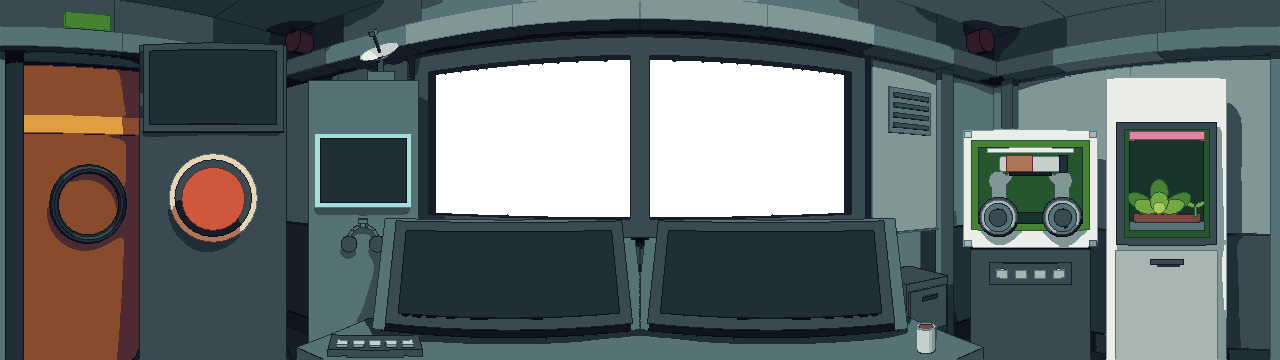
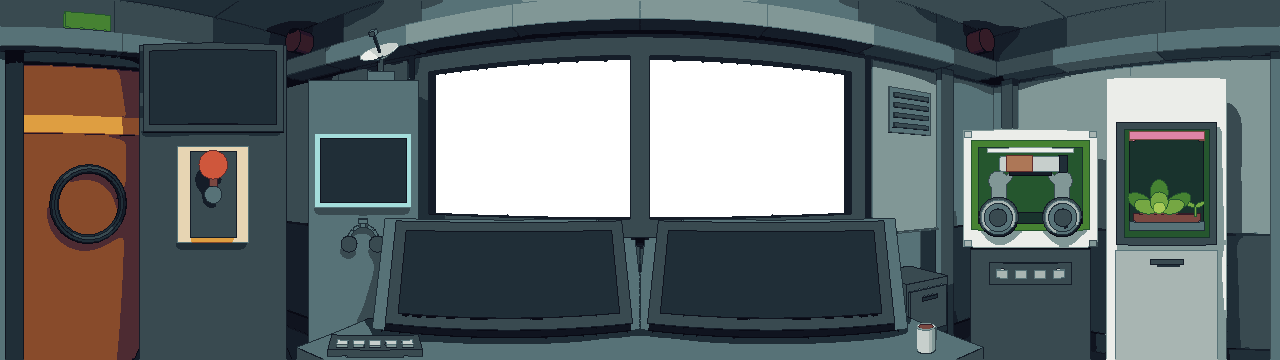
Alavanca no lugar do botão do abrigo: modelo, render da sala e retângulo clicável
A alavanca (placa de aro amarelo, fenda, pino e punho vermelho) toma o lugar do botão cogumelo
no pilar do suporte de vida. Fica em cima nos estados normal, tempestade e modo de segurança e
embaixo em abrigo e abrigo_aberto, sem render extra. Os PNGs são o render só na região da
alavanca (x 154..271, y 131..257) sobre os do main: fora dela, zero pixel de diferença.
botoes.abrigo passa de 168,153 90x90 para 177,145 73x98, dentro da faixa de clique.

Changed region(s): [[0.125, 0.3972, 0.2188, 0.7028]]

diff --git a/arte/blender/comodo.py b/arte/blender/comodo.py
@@ -6,14 +6,23 @@ Uso (da raiz do repo):
 (o `blender` do PATH é o Flatpak: passe o script por caminho absoluto.)
 
 Fonte da verdade: este script. Nenhum .blend é salvo nem lido.
-Mesma câmera em todos os estados. A geometria também é a mesma, com uma única exceção
-permitida: a persiana da janela, que só o estado `abrigo` fecha. O estado muda luz e emissão.
+Mesma câmera em todos os estados. A geometria também é a mesma, com duas exceções permitidas:
+a persiana da janela, que só o estado `abrigo` fecha, e a alavanca do abrigo, que fica embaixo
+em `abrigo` e `abrigo_aberto` e em cima nos outros estados (a placa, a fenda e o pino são os
+mesmos; muda só o braço, com o punho). O estado muda luz e emissão.
 A persiana fica dentro do vão da janela, entre a moldura de aço e o vidro, com a largura exata
 do vão: a moldura e o montante central a tapam e continuam visíveis por cima dela. Há o estado
 extra `abrigo_aberto`: a mesma luz e emissão do `abrigo`, sem a persiana e com o vidro em alpha 0.
-Ele não entra no padrão de `--estados` (renderize com `--estados abrigo,abrigo_aberto`);
+A alavanca está embaixo nos dois. Ele não entra no padrão de `--estados` (renderize com
+`--estados abrigo,abrigo_aberto`);
 scripts/gerar_persiana.py usa a diferença entre `abrigo` e `abrigo_aberto` como a camada da
 persiana.
+
+Os PNGs da sala com a alavanca (15/11) não são o render cru: são o render só na região de repintura
+da alavanca (x 154..271, y 131..257, que cobre o botão antigo e a sombra dos dois) colado sobre os
+PNGs anteriores, com o pilar do suporte de vida na cor de antes. Com a geometria nova o render inteiro
+muda o tom desse pilar na tempestade (a emissão do botão grande sumiu) e uns pixels esparsos
+mudam longe dela; fora da região os PNGs ficam idênticos aos do commit anterior.
 
 Arte final, não mais gray-box: o casco tem placas com juntas, meia-parede, friso, rodapé, calha
 em trechos, teto em placas e uma grade de ventilação; a glovebox e a estufa têm miolo com luz
@@ -29,9 +38,9 @@ sala, e o traço dele e as faces internas da moldura saem em neutro escuro (COR_
 Godot escurece a vista no pôr do Sol e à noite.
 
 Além dos PNGs do panorama, grava assets/comodo/regioes.json (retângulos dos botões e telas,
-calculados pela projeção real da câmera sobre os vértices). Botões: abrigo, estufa, glovebox e
-porta (a porta do dormitório, na ponta esquerda: tocá-la encerra o sol). Telas: energia, oxigenio,
-radiacao e comunicacao (a tela da Terra, apagada: quem a acende é o Godot). Desenho: porta_lampada,
+calculados pela projeção real da câmera sobre os vértices). Botões: abrigo (a alavanca: o retângulo
+da união das duas posições), estufa, glovebox e porta (a porta do dormitório, na ponta esquerda:
+tocá-la encerra o sol). Telas: energia, oxigenio, radiacao e comunicacao (a tela da Terra, apagada: quem a acende é o Godot). Desenho: porta_lampada,
 a lâmpada verde da porta, para o Godot acendê-la ou apagá-la por cima do render (o indicador de
 "pode dormir"). Região de desenho é o retângulo do que o passe de índice mostra de fato (justo, sem
 a folga da projeção), porque o Godot a pinta por cima do render. O terminal não é render: é camada de tela no Godot.
@@ -316,6 +325,12 @@ COR_AROS_JANELA = "151d28"           # traço do vidro e faces internas da moldu
 PERSIANA = []                        # objetos da persiana; só o estado abrigo os renderiza
 GLOVEBOX_C = (2.087, 1.466)          # (x, y) do painel da glovebox e o da estufa, no chão
 ESTUFA_C = (2.315, 0.66)
+# Braço e punho da alavanca do abrigo, nas duas posições: só um par é renderizado por estado.
+# Embaixo (abrigo ativo) em `abrigo` e `abrigo_aberto`; em cima nos outros estados.
+ALAVANCA = {"cima": [], "baixo": []}
+ESTADOS_ABRIGADOS = ("abrigo", "abrigo_aberto")
+ALAVANCA_Z = 1.12                    # altura do pino, centro da placa
+ALAVANCA_CURSO = 0.16                # do pino ao centro do punho, para cima ou para baixo
 
 
 def botao(nome, cor):
@@ -728,16 +743,27 @@ def construir():
     caixa("porta_lampada", (-W + 0.06, py, 2.2), (0.08, 0.3, 0.1), lampada_porta, next(i))
 
     # suporte de vida: coluna voltada para o olho, com a tela de radiação em cima
-    # e a alavanca (botão cogumelo) do abrigo embaixo
+    # e a alavanca do abrigo embaixo: placa de aro amarelo, fenda escura, pino e, no braço de aço,
+    # o punho vermelho (a cor do alerta que pede o abrigo). Em cima, o abrigo está desligado;
+    # embaixo, ativo. O braço sai do pino para a posição do estado: ver ALAVANCA e aplicar_estado.
     s = Painel(-2.14, 1.235)
     s.caixa("suporte_base", 0, 0, 0.06, 0.95, 0.42, 0.12, moldura, next(i))
     s.caixa("suporte_corpo", 0, 0, 1.05, 0.85, 0.30, 1.86, console, next(i))
     s.caixa("radiacao_moldura", 0, 0.17, 1.72, 0.80, 0.04, 0.50, moldura, next(i))
     s.caixa("radiacao_tela", 0, 0.195, 1.72, 0.72, 0.01, 0.42, ecra, next(i))
     botao("botao_abrigo", "cf573c")
-    s.cil("abrigo_aro", 0, 0.175, 1.10, 0.25, 0.05, amarelo, next(i))
-    s.cil("abrigo_anel", 0, 0.2, 1.10, 0.215, 0.05, moldura, next(i))
-    s.cil("abrigo_botao", 0, 0.25, 1.10, 0.17, 0.12, MATS["botao_abrigo"], next(i))
+    aco = mat("alavanca_aco", "a8b5b2")
+    pino = mat("alavanca_pino", "577277")
+    s.caixa("abrigo_aro", 0, 0.175, ALAVANCA_Z, 0.40, 0.05, 0.54, amarelo, next(i))
+    s.caixa("abrigo_fenda", 0, 0.20, ALAVANCA_Z, 0.26, 0.03, 0.48, moldura, next(i))
+    s.cil("abrigo_pino", 0, 0.23, ALAVANCA_Z, 0.05, 0.03, pino, next(i))
+    for pos, sinal in (("cima", 1), ("baixo", -1)):
+        zc = ALAVANCA_Z + sinal * ALAVANCA_CURSO
+        ALAVANCA[pos] += [
+            s.caixa(f"abrigo_braco_{pos}", 0, 0.225, ALAVANCA_Z + sinal * ALAVANCA_CURSO / 2,
+                    0.05, 0.03, ALAVANCA_CURSO, aco, next(i)),
+            s.cil(f"abrigo_punho_{pos}", 0, 0.28, zc, 0.078, 0.09, MATS["botao_abrigo"], next(i)),
+        ]
 
     # parede da frente, à esquerda: a tela de comunicação com a Terra, num pilar voltado para o
     # olho (como o suporte de vida) e encostado na parede da frente. O miolo fica apagado, na cor
@@ -818,7 +844,8 @@ def construir():
 # ---------------------------------------------------------------- estados
 
 def aplicar_estado(estado, luzes):
-    """Só luz e emissão (e a persiana da janela, no abrigo). Nada de material base ou câmera."""
+    """Só luz e emissão, a persiana da janela (no abrigo) e a posição da alavanca do abrigo.
+    Nada de material base ou câmera."""
     branco = hexrgb("ebede9")
     ambar = hexrgb("de9e41")
     vermelho = hexrgb("cf573c")
@@ -863,8 +890,11 @@ def aplicar_estado(estado, luzes):
         elif n in COR_BOTAO:
             emissao(m, COR_BOTAO[n], E["botoes"])
     emissao(MATS["janela"], None, E["janela"])
-    for ob in PERSIANA:                  # única diferença de geometria entre estados
+    for ob in PERSIANA:                  # diferença de geometria entre estados (1 de 2)
         ob.hide_render = estado != "abrigo"  # (abrigo_aberto também a esconde)
+    for pos, obs in ALAVANCA.items():    # diferença de geometria entre estados (2 de 2)
+        for ob in obs:
+            ob.hide_render = (pos == "baixo") == (estado not in ESTADOS_ABRIGADOS)
     bpy.context.scene.world.node_tree.nodes["Background"].inputs["Strength"].default_value = E["mundo"]
 
 
@@ -1203,7 +1233,9 @@ REGIOES = {
     "oxigenio": ["oxigenio_tela"],
     "radiacao": ["radiacao_tela"],
     "comunicacao": ["comunicacao_tela"],
-    "abrigo": ["abrigo_aro", "abrigo_anel", "abrigo_botao"],
+    # a alavanca: a placa e as duas posições do braço com o punho (o retângulo é a união)
+    "abrigo": ["abrigo_aro", "abrigo_fenda", "abrigo_pino", "abrigo_braco_cima", "abrigo_punho_cima",
+               "abrigo_braco_baixo", "abrigo_punho_baixo"],
     "porta": ["porta_folha", "porta_moldura_topo", "porta_moldura_tras", "porta_moldura_frente"],
     "porta_lampada": ["porta_lampada"],
     "estufa": ["estufa_moldura", "estufa_vidro"],
@@ -1603,23 +1635,32 @@ def main():
 
     (CACHE / "indices.json").write_text(json.dumps(INDICE, indent=1))
 
-    # a geometria não pode mudar entre estados, salvo a persiana dentro do retângulo da janela:
-    # profundidade, normal, índice e contorno idênticos fora dele (com 3 px de folga para o traço)
+    # a geometria não pode mudar entre estados, salvo a persiana dentro do retângulo da janela e a
+    # alavanca dentro do retângulo do abrigo: profundidade, normal, índice e contorno idênticos fora
+    # deles (com 3 px de folga para o traço)
+    def caixa_com_folga(r):
+        m = np.zeros((a.altura, a.largura), bool)
+        m[max(r["y"] - 3, 0):r["y"] + r["h"] + 3, max(r["x"] - 3, 0):r["x"] + r["w"] + 3] = True
+        return m
+
     j = reg["janela"]
-    dentro = np.zeros((a.altura, a.largura), bool)
-    dentro[max(j["y"] - 3, 0):j["y"] + j["h"] + 3, max(j["x"] - 3, 0):j["x"] + j["w"] + 3] = True
+    dentro = caixa_com_folga(j)
+    dentro_alavanca = caixa_com_folga(reg["abrigo"])
     base = estados[0]
     for e in estados[1:]:
         dz = np.abs(passes[e]["z"] - passes[base]["z"])
         dn = np.abs(passes[e]["normal"] - passes[base]["normal"]).max(-1)
         di = passes[e]["indice"] != passes[base]["indice"]
         db = contorno(passes[e]) != contorno(passes[base])
-        fora = ~dentro
-        print(f"[comodo] {base} x {e}: FORA da janela max|Δz|={dz[fora].max():.2e} "
+        fora = ~dentro & ~dentro_alavanca
+        print(f"[comodo] {base} x {e}: FORA da janela e da alavanca max|Δz|={dz[fora].max():.2e} "
               f"max|Δnormal|={dn[fora].max():.2e} px índice diferente={int(di[fora].sum())} "
               f"px contorno diferente={int(db[fora].sum())}")
-        print(f"[comodo] {base} x {e}: DENTRO da janela (única diferença permitida, a persiana) "
+        print(f"[comodo] {base} x {e}: DENTRO da janela (a persiana) "
               f"px índice diferente={int(di[dentro].sum())} px contorno diferente={int(db[dentro].sum())}")
+        print(f"[comodo] {base} x {e}: DENTRO do retângulo da alavanca "
+              f"px índice diferente={int(di[dentro_alavanca].sum())} "
+              f"px contorno diferente={int(db[dentro_alavanca].sum())}")
 
     # vidro da janela: alpha 0 onde a persiana está aberta, tudo opaco no abrigo
     vidro_ok = True
